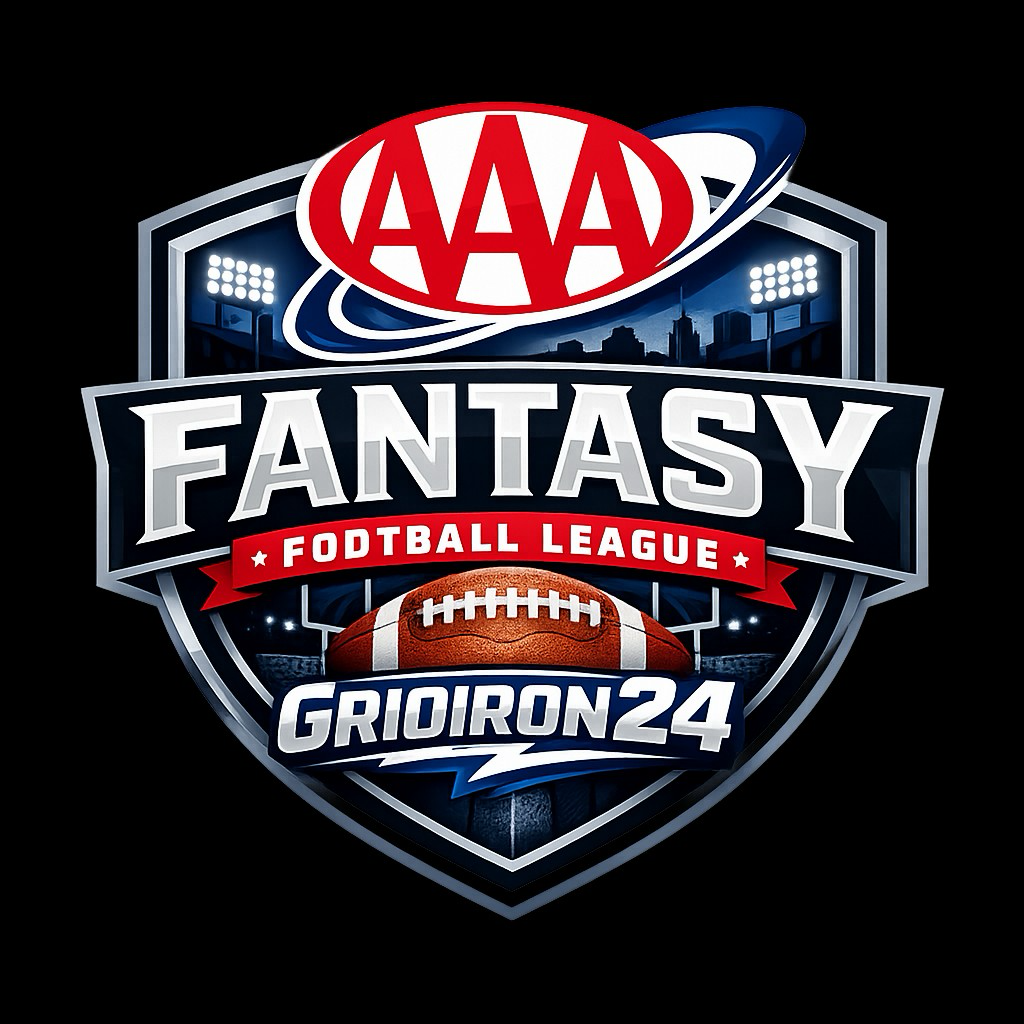
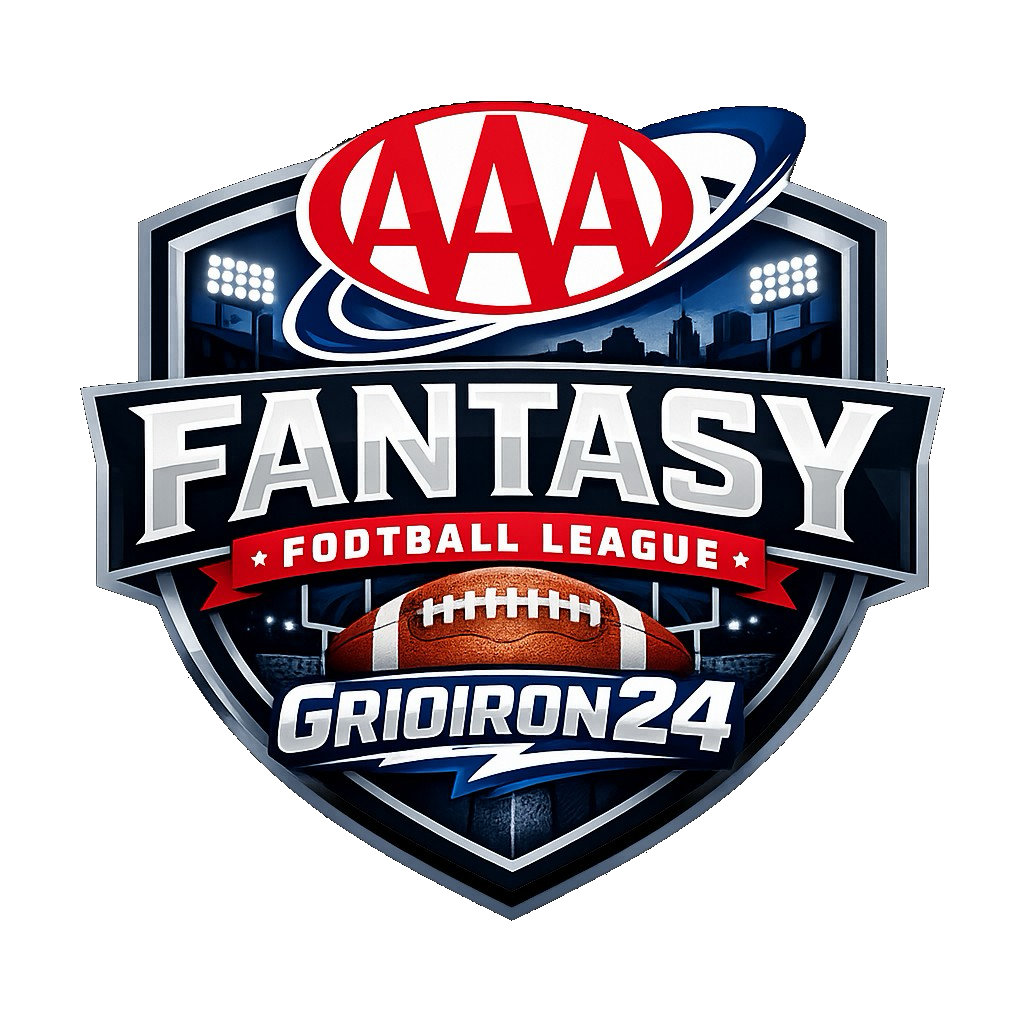
Make AAA crest transparent and flex roster size 10–14.
Strip the logo background for day/night match, brand AAA rulebook/standings with it, and document interest-based roster sizing with a scaled prize pool.

diff --git a/public/standings.html b/public/standings.html
@@ -305,6 +305,7 @@
       width: clamp(5.5rem, 14vw, 7.5rem);
       height: auto;
       display: block;
+      background: transparent;
       filter: none;
       box-shadow: var(--logo-lift);
     }
@@ -372,6 +373,9 @@
       border-left: 4px solid #efd782;
     }
     .board.aaa .board-head h2 { color: #efd782; }
+    .board.aaa .conf-logo {
+      background: transparent;
+    }
     .aaa-payouts {
       margin-top: 1rem;
       max-width: 48rem;
@@ -436,7 +440,7 @@
           <div>
             <p class="eyebrow">Feeder League</p>
             <h2 id="aaa-heading">AAA League</h2>
-            <p>Affiliated standings and next-season promotee. Not a third GridIron 24 conference.</p>
+            <p>Affiliated standings and next-season promotee. Roster size is set by interest (10–14 teams). Not a third GridIron 24 conference.</p>
           </div>
         </div>
         <div id="aaa-promotee"></div>
@@ -596,9 +600,13 @@
       if (p) {
         const prizes = (p.prizes || []).map((prize) => `
           <li><span>${escapeHtml(prize.label)}</span><span class="amt">${money(prize.amount, p.currency)}</span></li>`).join('');
+        const rosterLabel = escapeHtml(p.teamCountLabel || (p.teamCount != null ? String(p.teamCount) : '10–14 (interest)'));
+        const poolLabel = p.pool != null
+          ? money(p.pool, p.currency)
+          : `${money(p.poolMin, p.currency)}–${money(p.poolMax, p.currency)}`;
         payoutsMount.innerHTML = `
-          <p><strong>${money(p.buyInPerTeam, p.currency)}</strong> buy-in · <strong>${escapeHtml(String(p.teamCount || 12))}</strong> teams ·
-          <strong>${money(p.pool != null ? p.pool : Number(p.buyInPerTeam || 0) * Number(p.teamCount || 0), p.currency)}</strong> prize pool</p>
+          <p><strong>${money(p.buyInPerTeam, p.currency)}</strong> buy-in · <strong>${rosterLabel}</strong> teams ·
+          <strong>${poolLabel}</strong> prize pool</p>
           ${prizes ? `<ul class="aaa-prize-list">${prizes}</ul>` : ''}
           ${p.notes ? `<p style="margin-top:0.65rem;">${escapeHtml(p.notes)}</p>` : ''}`;
       } else {

diff --git a/server.js b/server.js
@@ -2002,12 +2002,21 @@ function getAffiliatedLeague(key = 'aaa') {
 function aaaPayoutsFromAffiliate(affiliate) {
   const p = affiliate?.payouts || {};
   const buyIn = Number(p.buyInPerTeam);
-  const teamCount = Number(p.teamCount) || 12;
+  const min = Number(p.teamCountMin) || 10;
+  const max = Number(p.teamCountMax) || 14;
+  const fixed = Number(p.teamCount);
+  const teamCount = Number.isFinite(fixed) && fixed > 0 ? fixed : null;
   const prizes = Array.isArray(p.prizes) ? p.prizes : [];
+  const resolvedBuyIn = Number.isFinite(buyIn) ? buyIn : 50;
   return {
     seasonLabel: p.seasonLabel || 'AAA Season',
-    buyInPerTeam: Number.isFinite(buyIn) ? buyIn : 50,
+    buyInPerTeam: resolvedBuyIn,
+    teamCountMin: min,
+    teamCountMax: max,
     teamCount,
+    teamCountLabel: teamCount
+      ? String(teamCount)
+      : `${min}–${max} (interest)`,
     currency: p.currency || 'USD',
     notes: p.notes || '',
     prizes: prizes.map((row, index) => ({
@@ -2015,7 +2024,9 @@ function aaaPayoutsFromAffiliate(affiliate) {
       label: String(row.label || `Place ${index + 1}`).trim(),
       amount: Number(row.amount) || 0
     })),
-    pool: (Number.isFinite(buyIn) ? buyIn : 50) * teamCount
+    poolMin: resolvedBuyIn * min,
+    poolMax: resolvedBuyIn * max,
+    pool: teamCount != null ? resolvedBuyIn * teamCount : null
   };
 }
 
@@ -2026,12 +2037,14 @@ async function buildAaaPayload() {
     shortName: 'AAA',
     espnLeagueId: null,
     role: 'feeder',
-    payouts: {
-      buyInPerTeam: 50,
-      teamCount: 12,
-      currency: 'USD',
-      prizes: []
-    }
+      payouts: {
+        buyInPerTeam: 50,
+        teamCountMin: 10,
+        teamCountMax: 14,
+        teamCount: null,
+        currency: 'USD',
+        prizes: []
+      }
   };
   const espnId = Number(affiliate.espnLeagueId);
   const configured = Number.isFinite(espnId) && espnId > 0;

diff --git a/leagues-store.js b/leagues-store.js
@@ -89,12 +89,18 @@ function defaultSurvival(seed = {}) {
 }
 
 function defaultAaaPayouts(seed = {}) {
+  const min = Number(seed.teamCountMin) || 10;
+  const max = Number(seed.teamCountMax) || 14;
+  const fixed = Number(seed.teamCount);
   return {
     seasonLabel: String(seed.seasonLabel || 'AAA Season').trim() || 'AAA Season',
     buyInPerTeam: Number(seed.buyInPerTeam) === 0 ? 0 : (Number(seed.buyInPerTeam) || 50),
-    teamCount: Number(seed.teamCount) || 12,
+    teamCountMin: min,
+    teamCountMax: max,
+    teamCount: Number.isFinite(fixed) && fixed > 0 ? fixed : null,
     currency: String(seed.currency || 'USD').trim() || 'USD',
-    notes: String(seed.notes || '').trim(),
+    notes: String(seed.notes || '').trim()
+      || `Roster size is set by interest (${min}–${max} franchises). Buy-in is $50 per franchise; prize pool equals $50 × final roster.`,
     prizes: Array.isArray(seed.prizes) && seed.prizes.length
       ? seed.prizes.map((row, index) => ({
           place: Number(row.place) || index + 1,
@@ -378,7 +384,11 @@ function ensureSystemLeague(seed) {
       system.affiliatedLeagues = system.affiliatedLeagues.map((row) => {
         const match = seeded.find((s) => s.key === row.key) || seeded[0] || {};
         let next = row;
-        if (!(row.payouts?.buyInPerTeam != null && Array.isArray(row.payouts?.prizes) && row.payouts.prizes.length)) {
+        const needsPayouts = !(row.payouts?.buyInPerTeam != null
+          && Array.isArray(row.payouts?.prizes)
+          && row.payouts.prizes.length);
+        const needsRange = row.payouts && (row.payouts.teamCountMin == null || row.payouts.teamCountMax == null);
+        if (needsPayouts || needsRange) {
           dirty = true;
           next = {
             ...next,

diff --git a/public/rulebook.html b/public/rulebook.html
@@ -467,16 +467,20 @@
           <p class="article-num">Article VII</p>
           <h2>AAA League</h2>
         </header>
+        <div class="aaa-rule-brand">
+          <img src="/assets/aaa-league.png" alt="AAA Fantasy Football League" width="160" height="160" decoding="async" />
+        </div>
         <section class="section">
           <h3 class="section-title">§7.01 Feeder League</h3>
-          <p>AAA League is the affiliated feeder league for GridIron 24. It is not a third conference.</p>
+          <p>AAA League is the affiliated feeder league for GridIron 24. It is not a third conference. Final roster size is set by interest and shall be between <strong>ten (10) and fourteen (14)</strong> franchises.</p>
         </section>
         <section class="section">
           <h3 class="section-title">§7.02 Buy-In &amp; Prize Pool</h3>
-          <p>Each AAA franchise pays a <strong>$50.00</strong> buy-in. With twelve franchises, the AAA prize pool is <strong>$600.00</strong>.</p>
+          <p>Each AAA franchise pays a <strong>$50.00</strong> buy-in. The prize pool equals <strong>$50.00 × final roster size</strong> (expected range <strong>$500.00–$700.00</strong> for 10–14 teams).</p>
         </section>
         <section class="section">
           <h3 class="section-title">§7.03 Payout Schedule</h3>
+          <p>The following award schedule assumes a twelve-franchise field and may be adjusted by the commissioner when the roster locks:</p>
           <ol>
             <li><strong>AAA Champion</strong> — $300.00</li>
             <li><strong>AAA Runner-Up</strong> — $150.00</li>

diff --git a/config.js b/config.js
@@ -61,9 +61,11 @@ module.exports = {
       payouts: {
         seasonLabel: '2026 AAA Season',
         buyInPerTeam: 50,
-        teamCount: 12,
+        teamCountMin: 10,
+        teamCountMax: 14,
+        teamCount: null,
         currency: 'USD',
-        notes: 'Prize pool is $600 from twelve AAA franchises at $50 buy-in. Champion promotes to GridIron 24 next season (display / commissioner-administered).',
+        notes: 'Roster size is set by interest (10–14 franchises). Buy-in is $50 per franchise; the prize pool equals $50 × final roster ($500–$700). Award amounts below assume a 12-team field and may be adjusted when the roster locks. Champion promotes to GridIron 24 next season (display / commissioner-administered).',
         prizes: [
           { place: 1, label: 'AAA Champion', amount: 300 },
           { place: 2, label: 'AAA Runner-Up', amount: 150 },
